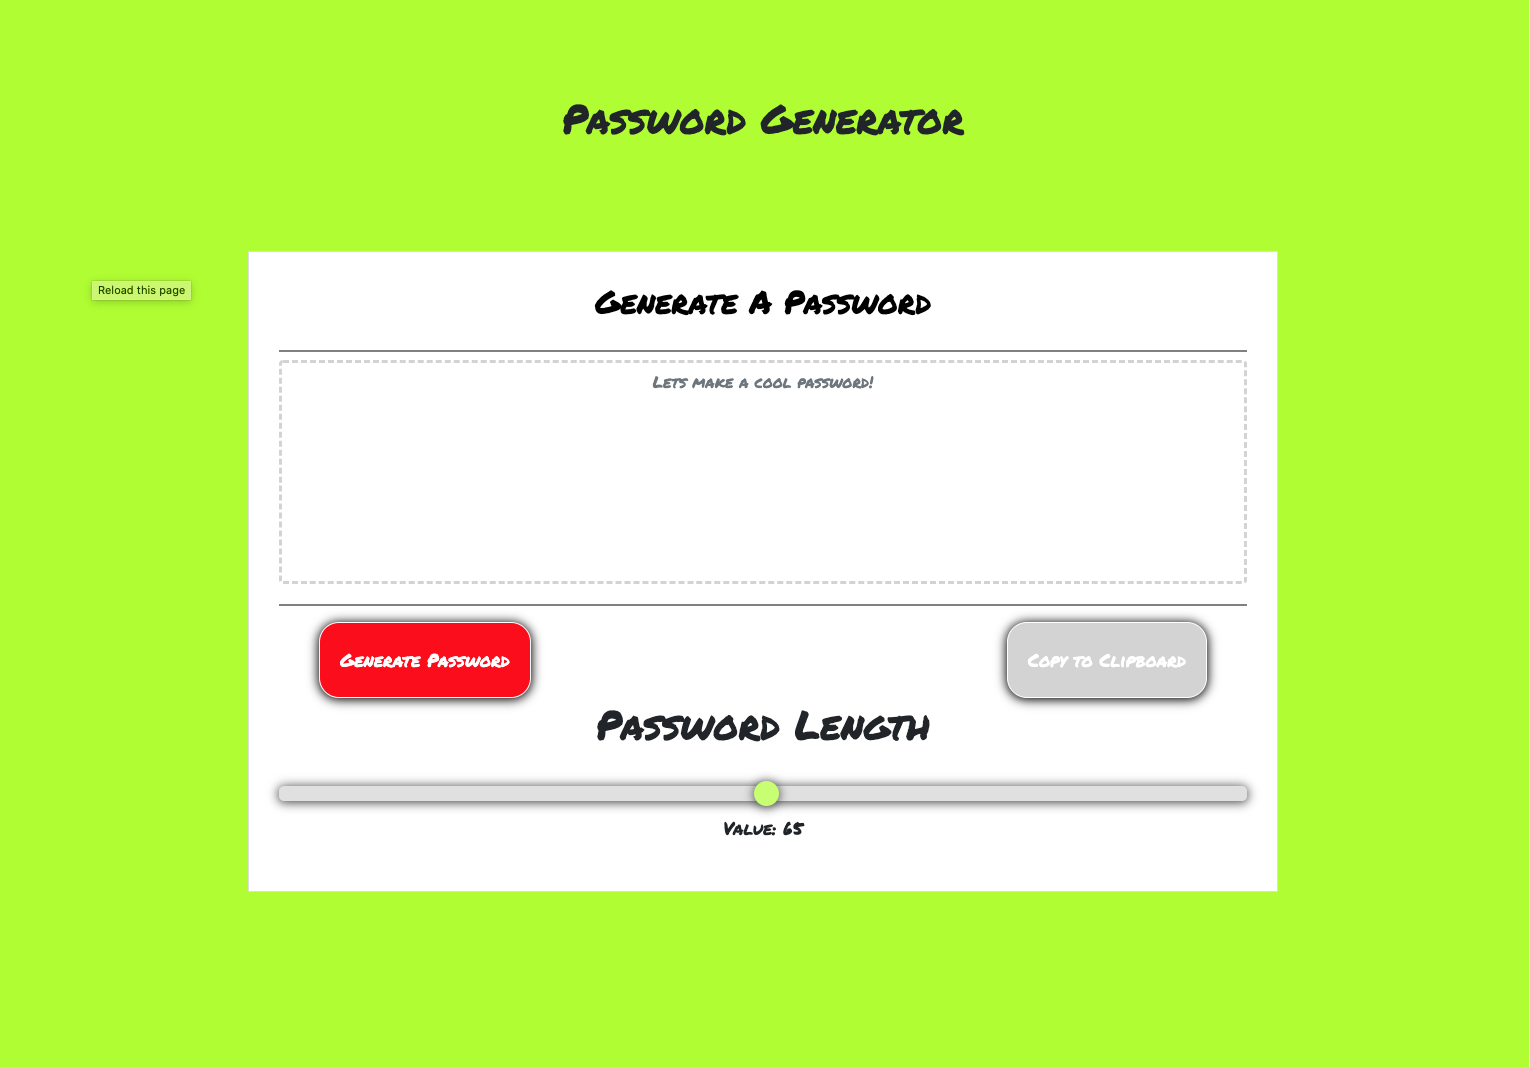
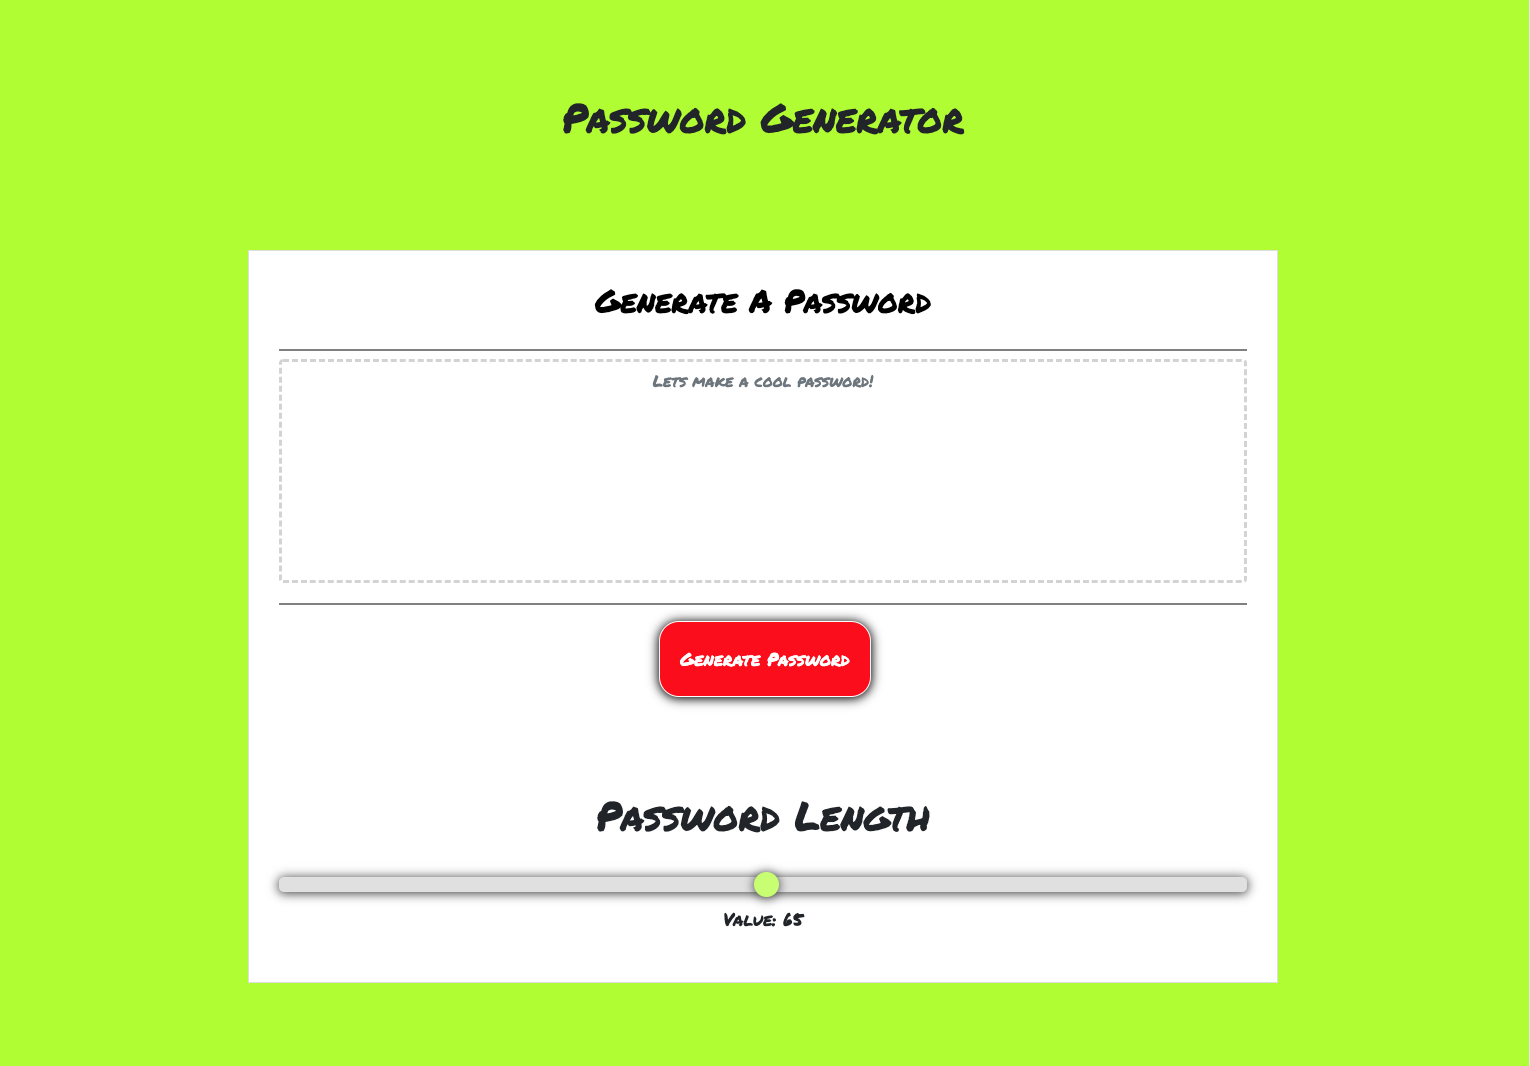
more edits

diff --git a/assets/style.css b/assets/style.css
@@ -67,23 +67,12 @@ h2 {
 }
 
 .btn-generate {
-	float: left;
+	float: center;
 	background-color: red !important;
 	border: 1px solid #ffffff;
 	margin-top: 16px !important;
-	margin-left: 40px !important;
+	margin-left: 380px !important;
 	border-radius: 20px !important;
-	padding: 20px;
-	box-shadow: 0px 1px 10px 1px black;
-}
-
-.btn-copy {
-	float: right;
-	background-color: lightgrey !important;
-	border: 1px solid #ffffff;
-	margin-top: 16px !important;
-	margin-right: 40px !important;
-	border-radius: 20px;
 	padding: 20px;
 	box-shadow: 0px 1px 10px 1px black;
 }

diff --git a/index.html b/index.html
@@ -39,7 +39,8 @@
 							id="messageInput"
 							placeholder="Lets make a cool password!"
 						/>
-					</div>
+                    </div>
+                    
 
 					<div class="buttons">
 						<button
@@ -48,10 +49,7 @@
 							onClick="userPrompt()"
 							>Generate Password</button
 						>
-						<button type="submit" class="btn-copy btn-secondary"
-							>Copy to Clipboard</button
-						>
-					</div>
+				
 
 					<h1>Password Length</h1>
 
